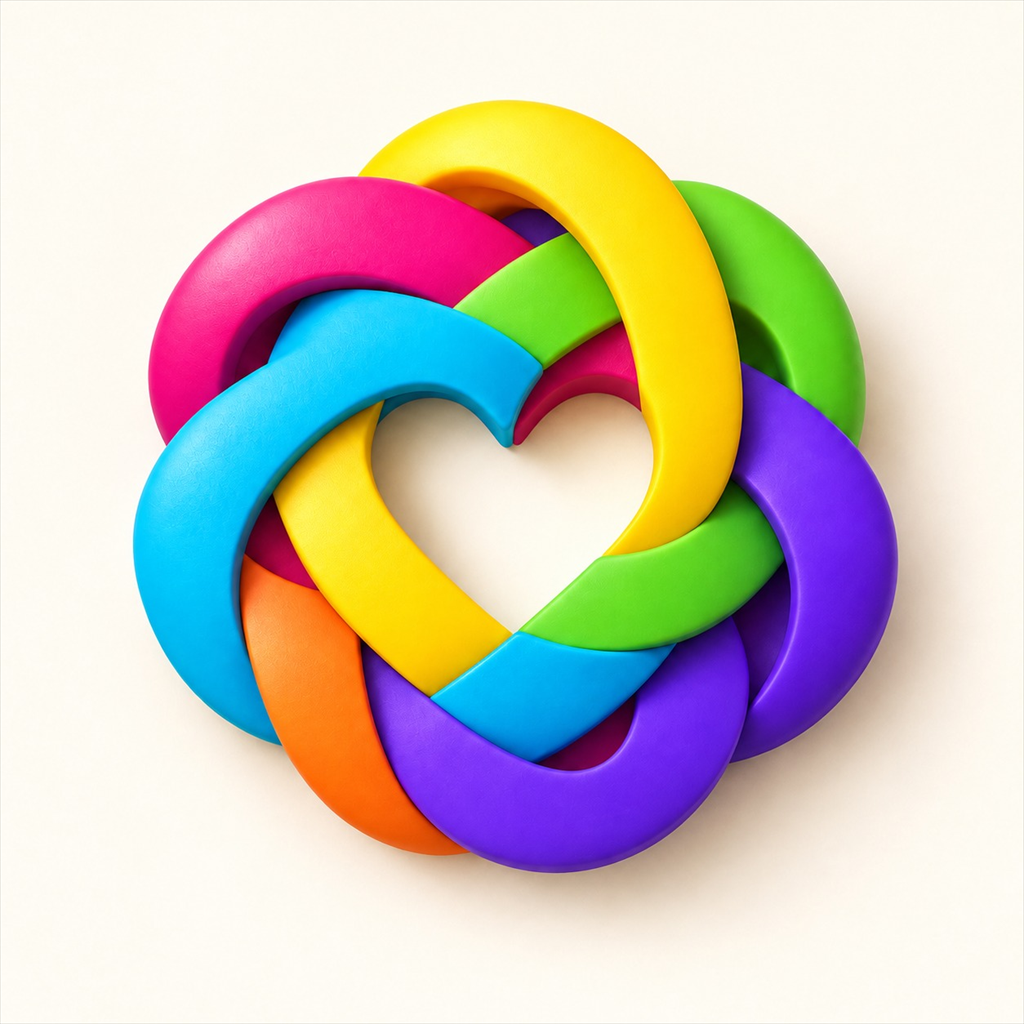
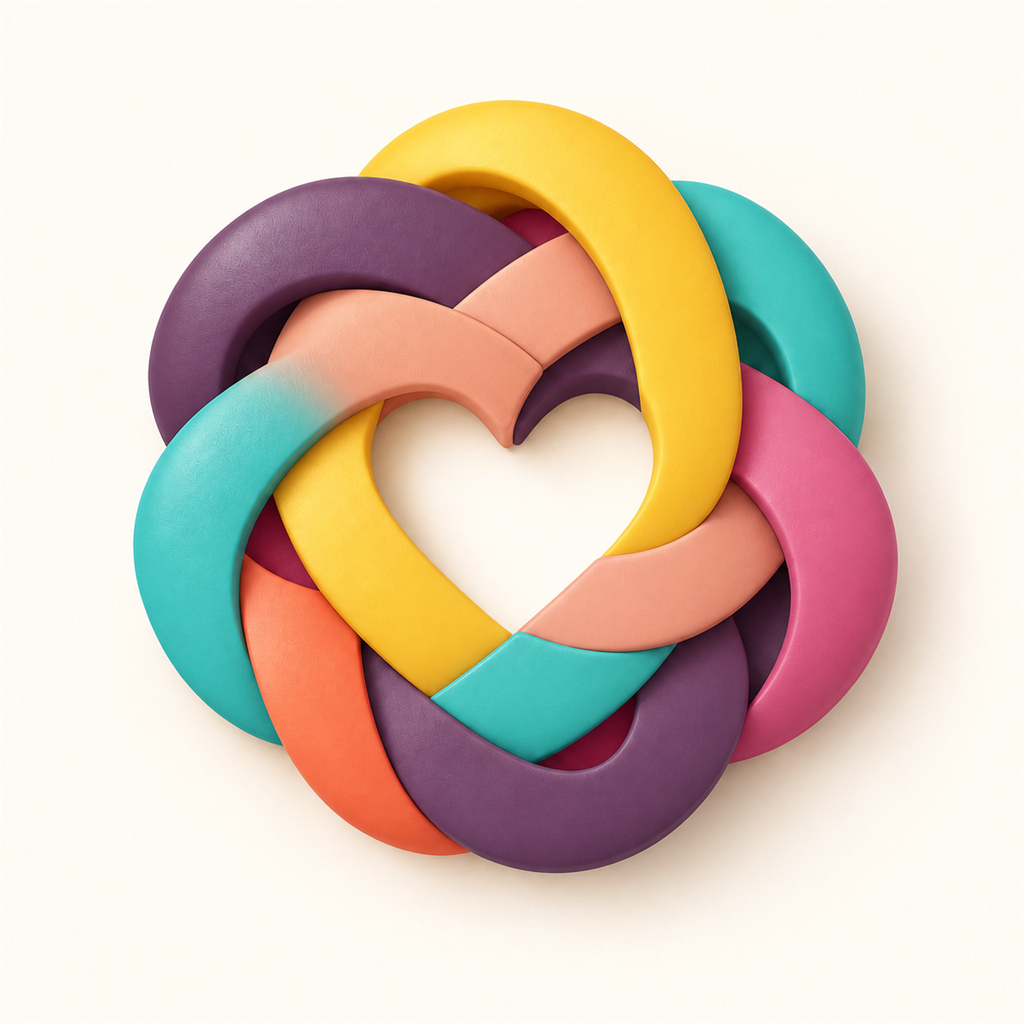
Petim logosunu tum marka alanlarinda guncelle

diff --git a/PetWork.Mobile/src/screens/AccountScreen.tsx b/PetWork.Mobile/src/screens/AccountScreen.tsx
@@ -3,6 +3,7 @@ import { StatusBar } from 'expo-status-bar';
 import { useState } from 'react';
 import { ActivityIndicator, Alert, KeyboardAvoidingView, Modal, Platform, Pressable, ScrollView, StyleSheet, Text, TextInput, View } from 'react-native';
 import { changePassword, deleteAccount, updateUsername, type AuthResponse } from '../api';
+import { BrandMark } from '../components/BrandMark';
 import { saveSession, updateStoredUsername } from '../session';
 import { colors, createThemedStyles, getThemeMode, shadow } from '../theme';
 
@@ -62,7 +63,7 @@ export function AccountScreen({ username, token, onBack, onOpenPets, onLogout, o
 
   return <><ScrollView style={styles.screen} contentContainerStyle={styles.content} showsVerticalScrollIndicator={false}>
     <StatusBar style={getThemeMode() === 'dark' ? 'light' : 'dark'} />
-    <View style={styles.header}><Pressable onPress={onBack} style={styles.roundButton}><Ionicons name="arrow-back" size={22} color={colors.primary} /></Pressable><Text style={styles.headerTitle}>Hesabım</Text><View style={styles.roundButton}><Ionicons name="paw" size={19} color={colors.peach} /></View></View>
+    <View style={styles.header}><Pressable onPress={onBack} style={styles.roundButton}><Ionicons name="arrow-back" size={22} color={colors.primary} /></Pressable><Text style={styles.headerTitle}>Hesabım</Text><View style={styles.brandButton}><BrandMark size={42} /></View></View>
     <View style={styles.profileCard}><View style={styles.avatar}><Text style={styles.avatarText}>{username.charAt(0).toLocaleUpperCase('tr-TR')}</Text></View><Text style={styles.username}>{username}</Text><Text style={styles.memberText}>PetWork topluluk üyesi</Text><View style={styles.activeBadge}><Ionicons name="shield-checkmark" size={15} color="#41604A" /><Text style={styles.activeText}>Oturum güvenli</Text></View></View>
     <View style={styles.menuCard}><MenuRow icon="paw-outline" title="Patilerim" subtitle="Evcil hayvan profillerini yönet" onPress={onOpenPets} /><MenuRow icon="person-outline" title="Kullanıcı adını değiştir" subtitle="Toplulukta görünen kullanıcı adını güncelle" onPress={() => { setUsernameInput(username); setDialog('username'); }} /><MenuRow icon="key-outline" title="Şifreyi değiştir" subtitle="Mevcut şifrenle yeni şifre oluştur" onPress={() => setDialog('password')} last /></View>
     <Pressable onPress={confirmLogout} style={({ pressed }) => [styles.logoutButton, pressed && styles.pressed]}><Ionicons name="log-out-outline" size={21} color="#9B463B" /><Text style={styles.logoutText}>Çıkış Yap</Text></Pressable>
@@ -84,7 +85,7 @@ const passwordHelp = 'En az 8 karakter; büyük harf, küçük harf, rakam ve ö
 const isStrongPassword = (value: string) => value.length >= 8 && value.length <= 100 && /[A-Z]/.test(value) && /[a-z]/.test(value) && /\d/.test(value) && /[^A-Za-z0-9]/.test(value);
 const serif = Platform.select({ ios: 'Georgia', android: 'serif', default: 'serif' });
 const styles = createThemedStyles(() => ({
-  screen: { flex: 1, backgroundColor: colors.background }, content: { flexGrow: 1, paddingTop: Platform.OS === 'ios' ? 56 : 28, paddingHorizontal: 20, paddingBottom: 112, width: '100%', maxWidth: 620, alignSelf: 'center' }, header: { flexDirection: 'row', alignItems: 'center', justifyContent: 'space-between' }, roundButton: { width: 42, height: 42, borderRadius: 21, backgroundColor: colors.card, alignItems: 'center', justifyContent: 'center', ...shadow }, headerTitle: { color: colors.text, fontFamily: serif, fontSize: 22, fontWeight: '700' },
+  screen: { flex: 1, backgroundColor: colors.background }, content: { flexGrow: 1, paddingTop: Platform.OS === 'ios' ? 56 : 28, paddingHorizontal: 20, paddingBottom: 112, width: '100%', maxWidth: 620, alignSelf: 'center' }, header: { flexDirection: 'row', alignItems: 'center', justifyContent: 'space-between' }, roundButton: { width: 42, height: 42, borderRadius: 21, backgroundColor: colors.card, alignItems: 'center', justifyContent: 'center', ...shadow }, brandButton: { width: 42, height: 42, alignItems: 'center', justifyContent: 'center' }, headerTitle: { color: colors.text, fontFamily: serif, fontSize: 22, fontWeight: '700' },
   profileCard: { alignItems: 'center', backgroundColor: colors.card, borderRadius: 26, padding: 24, marginTop: 24, borderWidth: 1, borderColor: colors.border, ...shadow }, avatar: { width: 82, height: 82, borderRadius: 41, backgroundColor: colors.primary, alignItems: 'center', justifyContent: 'center', borderWidth: 5, borderColor: colors.lilacSoft }, avatarText: { color: colors.white, fontFamily: serif, fontSize: 36, fontWeight: '700' }, username: { color: colors.text, fontFamily: serif, fontSize: 26, fontWeight: '700', marginTop: 13 }, memberText: { color: colors.muted, fontSize: 11, marginTop: 4 }, activeBadge: { flexDirection: 'row', alignItems: 'center', gap: 6, backgroundColor: colors.sageSoft, paddingHorizontal: 11, paddingVertical: 7, borderRadius: 15, marginTop: 13 }, activeText: { color: '#41604A', fontSize: 10, fontWeight: '800' },
   menuCard: { backgroundColor: colors.card, borderRadius: 22, marginTop: 16, paddingHorizontal: 16, borderWidth: 1, borderColor: colors.border }, menuRow: { minHeight: 76, flexDirection: 'row', alignItems: 'center', gap: 12, borderBottomWidth: 1, borderBottomColor: colors.border }, menuRowLast: { borderBottomWidth: 0 }, menuIcon: { width: 42, height: 42, borderRadius: 21, backgroundColor: colors.lilacSoft, alignItems: 'center', justifyContent: 'center' }, flexOne: { flex: 1 }, menuTitle: { color: colors.text, fontSize: 13, fontWeight: '800' }, menuSubtitle: { color: colors.muted, fontSize: 9, marginTop: 4 }, logoutButton: { minHeight: 53, flexDirection: 'row', alignItems: 'center', justifyContent: 'center', gap: 9, backgroundColor: colors.peachSoft, borderWidth: 1, borderColor: colors.peach, borderRadius: 18, marginTop: 18 }, logoutText: { color: '#8E4036', fontSize: 13, fontWeight: '900' }, deleteButton: { alignItems: 'center', paddingVertical: 17 }, deleteText: { color: '#9B463B', fontSize: 11, fontWeight: '800', textDecorationLine: 'underline' }, pressed: { opacity: 0.78, transform: [{ scale: 0.99 }] },
   overlay: { flex: 1, backgroundColor: '#2A2026AA', justifyContent: 'center', padding: 22 }, dialog: { width: '100%', maxWidth: 460, alignSelf: 'center', backgroundColor: colors.card, borderRadius: 24, padding: 22 }, dialogTitleRow: { flexDirection: 'row', alignItems: 'center', justifyContent: 'space-between', gap: 12 }, dialogTitle: { flex: 1, color: colors.text, fontFamily: serif, fontSize: 22, fontWeight: '700' }, helper: { color: colors.muted, fontSize: 10, lineHeight: 15, marginTop: 12 }, warning: { color: '#823D35', backgroundColor: colors.peachSoft, borderRadius: 12, padding: 12, fontSize: 11, lineHeight: 17, marginTop: 12 }, input: { minHeight: 50, borderWidth: 1, borderColor: colors.border, borderRadius: 13, paddingHorizontal: 14, color: colors.text, marginTop: 12 }, error: { color: '#823D35', fontSize: 10, lineHeight: 15, marginTop: 10 }, primary: { minHeight: 50, borderRadius: 14, backgroundColor: colors.primary, alignItems: 'center', justifyContent: 'center', marginTop: 16 }, danger: { backgroundColor: '#9B463B' }, disabled: { opacity: 0.5 }, primaryText: { color: colors.white, fontSize: 12, fontWeight: '900' },

diff --git a/PetWork.Mobile/App.tsx b/PetWork.Mobile/App.tsx
@@ -25,6 +25,7 @@ import { isExpoGo, readSettings } from './src/settings';
 import { colors, createThemedStyles, getThemeMode, setThemeMode, shadow } from './src/theme';
 import type { SocialTab } from './src/types/social';
 import { clearSession, restoreSession, saveSession } from './src/session';
+import { BrandMark } from './src/components/BrandMark';
 
 type TabKey = 'home' | 'social' | 'lost' | 'match' | 'settings';
 type PageKey = 'root' | 'login' | 'register' | 'reset' | 'account' | 'pets' | 'nearby' | 'adoption' | 'reviews' | 'content' | 'notifications';
@@ -367,7 +368,7 @@ function Hero({ currentUser, unreadNotifications, query, setQuery, onOpenNotific
     <LinearGradient colors={getThemeMode() === 'dark' ? ['#493044', '#352532', '#251C25'] : [colors.primaryDark, colors.primary, '#845B7C']} style={styles.hero}>
       <View style={styles.headerRow}>
         <View>
-          <View style={styles.brandRow}><Ionicons name="paw" size={19} color={colors.peach} /><Text style={styles.brand}>Pet'im</Text></View>
+          <View style={styles.brandRow}><BrandMark size={30} /><Text style={styles.brand}>Pet'im</Text></View>
           <Text style={styles.byline}>by PetWork</Text>
         </View>
         {currentUser ? <View style={styles.authRow}><Pressable onPress={onOpenNotifications} accessibilityRole="button" accessibilityLabel={`${unreadNotifications} okunmamış bildirim`} style={({ pressed }) => [styles.notificationButton, pressed && styles.pressed]}><Ionicons name="notifications-outline" size={21} color={colors.primary} />{unreadNotifications > 0 ? <View style={styles.notificationBadge}><Text style={styles.notificationBadgeText}>{Math.min(unreadNotifications, 99)}</Text></View> : null}</Pressable><Pressable onPress={onOpenAccount} accessibilityRole="button" accessibilityLabel={`${currentUser} hesap menüsünü aç`} style={({ pressed }) => [styles.userChip, pressed && styles.pressed]}><Ionicons name="person-circle-outline" size={21} color={colors.primary} /><Text style={styles.userChipText} numberOfLines={1}>{currentUser}</Text></Pressable></View> : <View style={styles.authRow}>
@@ -477,7 +478,7 @@ function LostHomeBanner({ onPress }: { onPress: () => void }) {
 function ScreenShell({ title, subtitle, onBack, children }: { title: string; subtitle?: string; onBack?: () => void; children: React.ReactNode }) {
   return <ScrollView style={styles.screen} contentContainerStyle={styles.subScreenContent} showsVerticalScrollIndicator={false} keyboardShouldPersistTaps="handled">
     <View style={styles.subHeader}>
-      {onBack ? <Pressable onPress={onBack} style={styles.backButton} accessibilityLabel="Geri dön"><Ionicons name="arrow-back" size={22} color={colors.primary} /></Pressable> : <View style={styles.headerMark}><Ionicons name="paw" size={20} color={colors.peach} /></View>}
+      {onBack ? <Pressable onPress={onBack} style={styles.backButton} accessibilityLabel="Geri dön"><Ionicons name="arrow-back" size={22} color={colors.primary} /></Pressable> : <View style={styles.headerMark}><BrandMark size={42} /></View>}
       <View style={styles.flexOne}><Text style={styles.subTitle}>{title}</Text>{subtitle ? <Text style={styles.subSubtitle}>{subtitle}</Text> : null}</View>
     </View>
     {children}
@@ -752,7 +753,7 @@ const styles = createThemedStyles(() => ({
   lostHomeIcon: { width: 48, height: 48, borderRadius: 24, backgroundColor: getThemeMode() === 'dark' ? '#6D4A65' : colors.primary, alignItems: 'center', justifyContent: 'center' }, lostEyebrow: { color: getThemeMode() === 'dark' ? '#F0A18F' : '#9B463B', fontSize: 10, fontWeight: '900', letterSpacing: 1 },
   lostHomeTitle: { color: colors.text, fontFamily: serif, fontSize: 18, fontWeight: '700', marginTop: 3 }, lostHomeText: { color: colors.muted, fontSize: 11, lineHeight: 16, marginTop: 3 },
   subScreenContent: { paddingTop: statusInset + 8, paddingHorizontal: 20, paddingBottom: 116, width: '100%', maxWidth: 760, alignSelf: 'center' }, subHeader: { minHeight: 62, flexDirection: 'row', alignItems: 'center', gap: 12 },
-  backButton: { width: 42, height: 42, borderRadius: 21, backgroundColor: colors.lilacSoft, alignItems: 'center', justifyContent: 'center' }, headerMark: { width: 42, height: 42, borderRadius: 21, backgroundColor: colors.primary, alignItems: 'center', justifyContent: 'center' },
+  backButton: { width: 42, height: 42, borderRadius: 21, backgroundColor: colors.lilacSoft, alignItems: 'center', justifyContent: 'center' }, headerMark: { width: 42, height: 42, alignItems: 'center', justifyContent: 'center' },
   subTitle: { color: colors.text, fontFamily: serif, fontSize: 27, fontWeight: '700' }, subSubtitle: { color: colors.muted, fontSize: 11, marginTop: 2 },
   segmented: { flexDirection: 'row', marginTop: 17, padding: 4, backgroundColor: '#EFE8E9', borderRadius: 18 }, segmentButton: { flex: 1, minHeight: 42, borderRadius: 15, alignItems: 'center', justifyContent: 'center', paddingHorizontal: 4 },
   segmentActive: { backgroundColor: colors.card, ...shadow }, segmentText: { color: colors.muted, fontSize: 11, fontWeight: '700' }, segmentTextActive: { color: colors.primary },

diff --git a/PetWork.Mobile/src/screens/LostPetsScreen.tsx b/PetWork.Mobile/src/screens/LostPetsScreen.tsx
@@ -10,6 +10,7 @@ import {
   createLostPet, createLostPetSighting, deleteLostPet, getLostPet, getLostPets, getMyLostPets,
   mediaUrl, updateLostPetStatus, type CreateLostPetRequest, type LostPetDetail, type LostPetSummary,
 } from '../api';
+import { BrandMark } from '../components/BrandMark';
 import { colors, createThemedStyles, shadow } from '../theme';
 
 type ViewKey = 'hub' | 'list' | 'map' | 'mine' | 'detail' | 'lost-form' | 'found-form' | 'sighting';
@@ -108,7 +109,7 @@ function Page({ title, subtitle, onBack, refreshing, onRefresh, children }: { ti
     <ScrollView style={styles.page} contentContainerStyle={styles.content} keyboardShouldPersistTaps="handled"
       keyboardDismissMode={Platform.OS === 'ios' ? 'interactive' : 'on-drag'} onScrollBeginDrag={Keyboard.dismiss}
       refreshControl={onRefresh ? <RefreshControl refreshing={Boolean(refreshing)} onRefresh={onRefresh} tintColor={colors.primary} /> : undefined}>
-      <View style={styles.header}>{onBack ? <Pressable onPress={onBack} style={styles.back}><Ionicons name="arrow-back" size={26} color={colors.primary} /></Pressable> : <View style={styles.logo}><Ionicons name="paw" size={25} color="#F0A28F" /></View>}
+      <View style={styles.header}>{onBack ? <Pressable onPress={onBack} style={styles.back}><Ionicons name="arrow-back" size={26} color={colors.primary} /></Pressable> : <View style={styles.logo}><BrandMark size={54} /></View>}
         <View style={styles.flex}><Text style={styles.title}>{title}</Text><Text style={styles.subtitle}>{subtitle}</Text></View></View>
       {children}
     </ScrollView>
@@ -237,7 +238,7 @@ function localDateTime() { const date = new Date(Date.now() - new Date().getTime
 
 const styles = createThemedStyles(() => ({
   page: { flex: 1, backgroundColor: colors.background }, content: { padding: 20, paddingTop: 54, paddingBottom: 130 }, flex: { flex: 1 },
-  header: { flexDirection: 'row', alignItems: 'center', gap: 14, marginBottom: 25 }, logo: { width: 54, height: 54, borderRadius: 27, backgroundColor: colors.primary, alignItems: 'center', justifyContent: 'center' }, back: { width: 48, height: 48, borderRadius: 24, backgroundColor: colors.lilacSoft, alignItems: 'center', justifyContent: 'center' },
+  header: { flexDirection: 'row', alignItems: 'center', gap: 14, marginBottom: 25 }, logo: { width: 54, height: 54, alignItems: 'center', justifyContent: 'center' }, back: { width: 48, height: 48, borderRadius: 24, backgroundColor: colors.lilacSoft, alignItems: 'center', justifyContent: 'center' },
   title: { fontSize: 34, lineHeight: 39, fontFamily: 'Georgia', fontWeight: '800', color: '#2D2529' }, subtitle: { fontSize: 15, color: '#746A70', marginTop: 2 },
   urgent: { flexDirection: 'row', alignItems: 'center', gap: 16, padding: 18, borderRadius: 25, borderWidth: 1.5, borderColor: '#EAA08D', backgroundColor: colors.peachSoft, marginBottom: 18 }, roundCoral: { width: 58, height: 58, borderRadius: 29, backgroundColor: '#B45446', alignItems: 'center', justifyContent: 'center' }, urgentTitle: { fontSize: 18, fontWeight: '800', color: '#2D2529', marginBottom: 4 }, muted: { color: '#7D7278', fontSize: 14, lineHeight: 20 },
   actions: { flexDirection: 'row', flexWrap: 'wrap', gap: 12 }, action: { width: '48%', minHeight: 112, padding: 16, borderRadius: 22, borderWidth: 1, borderColor: '#E2DADC', backgroundColor: '#FFFCFA', justifyContent: 'space-between', ...shadow }, actionText: { fontSize: 16, fontWeight: '800', color: '#332B2F' }, pressed: { opacity: 0.7, transform: [{ scale: 0.99 }] },

diff --git a/PetWork.Mobile/src/screens/PatiSocialScreen.tsx b/PetWork.Mobile/src/screens/PatiSocialScreen.tsx
@@ -13,6 +13,7 @@ import { CreatePostModal, type SelectedPostImage } from '../components/social/Cr
 import { CreateQuestionModal } from '../components/social/CreateQuestionModal';
 import { CommunityShortcuts, NearbyShortcuts, type NearbyCategory } from '../components/social/SocialShortcuts';
 import { PostCard } from '../components/social/PostCard';
+import { BrandMark } from '../components/BrandMark';
 import { colors, createThemedStyles, shadow } from '../theme';
 import type { SocialPost, SocialTab } from '../types/social';
 
@@ -221,7 +222,7 @@ export function PatiSocialScreen({ initialTab = 'posts', username, authToken, on
     <View style={styles.screen}>
     <ScrollView style={styles.screen} contentContainerStyle={[styles.content, activeTab === 'questions' && styles.contentWithFloatingAction]} showsVerticalScrollIndicator={false} keyboardShouldPersistTaps="handled">
       <View style={styles.header}>
-        <View style={styles.headerIcon}><Ionicons name="paw" size={25} color={colors.peach} /></View>
+        <View style={styles.headerIcon}><BrandMark size={54} /></View>
         <View style={styles.headerCopy}>
           <Text style={styles.title}>PatiSosyal</Text>
           <Text style={styles.subtitle}>Bilgi, deneyim ve güvenli dayanışma</Text>
@@ -464,7 +465,7 @@ function formatDate(value: string) { return new Intl.DateTimeFormat('tr-TR', { d
 const statusInset = Platform.OS === 'android' ? NativeStatusBar.currentHeight ?? 24 : 50;
 const styles = createThemedStyles(() => ({
   screen: { flex: 1, backgroundColor: colors.background }, content: { paddingTop: statusInset + 12, paddingHorizontal: 19, paddingBottom: 116, width: '100%', maxWidth: 760, alignSelf: 'center' }, contentWithFloatingAction: { paddingBottom: 180 },
-  header: { flexDirection: 'row', alignItems: 'center', gap: 12 }, headerIcon: { width: 54, height: 54, borderRadius: 27, backgroundColor: colors.primary, alignItems: 'center', justifyContent: 'center' },
+  header: { flexDirection: 'row', alignItems: 'center', gap: 12 }, headerIcon: { width: 54, height: 54, alignItems: 'center', justifyContent: 'center' },
   headerCopy: { flex: 1 }, title: { color: colors.text, fontFamily: 'serif', fontSize: 30, fontWeight: '700', letterSpacing: -0.5 }, subtitle: { color: colors.muted, fontSize: 12, marginTop: 2 },
   accountButton: { maxWidth: 125, minHeight: 42, flexDirection: 'row', alignItems: 'center', gap: 6, backgroundColor: colors.lilacSoft, borderRadius: 21, paddingLeft: 5, paddingRight: 10 },
   accountAvatar: { width: 32, height: 32, borderRadius: 16, alignItems: 'center', justifyContent: 'center', backgroundColor: colors.primary }, accountAvatarText: { color: colors.white, fontSize: 13, fontWeight: '900' }, accountText: { flexShrink: 1, color: colors.primary, fontSize: 11, fontWeight: '900' },

diff --git a/PetWork.Mobile/src/components/BrandMark.tsx b/PetWork.Mobile/src/components/BrandMark.tsx
@@ -1,0 +1,17 @@
+import { Image, type ImageStyle, type StyleProp } from 'react-native';
+
+type Props = {
+  size?: number;
+  style?: StyleProp<ImageStyle>;
+};
+
+export function BrandMark({ size = 42, style }: Props) {
+  return (
+    <Image
+      source={require('../../assets/brand-mark.png')}
+      style={[{ width: size, height: size }, style]}
+      resizeMode="contain"
+      accessibilityLabel="Pet'im logosu"
+    />
+  );
+}

diff --git a/PetWork/wwwroot/css/petwork-refresh.css b/PetWork/wwwroot/css/petwork-refresh.css
@@ -409,7 +409,7 @@ img { max-width: 100%; }
     font-weight: 800 !important;
 }
 
-.petim-nav-link i { color: #e06f85; font-size: .8rem; }
+.petim-nav-mark { flex: 0 0 auto; object-fit: contain; }
 
 .petim-page main { overflow: hidden; }
 
